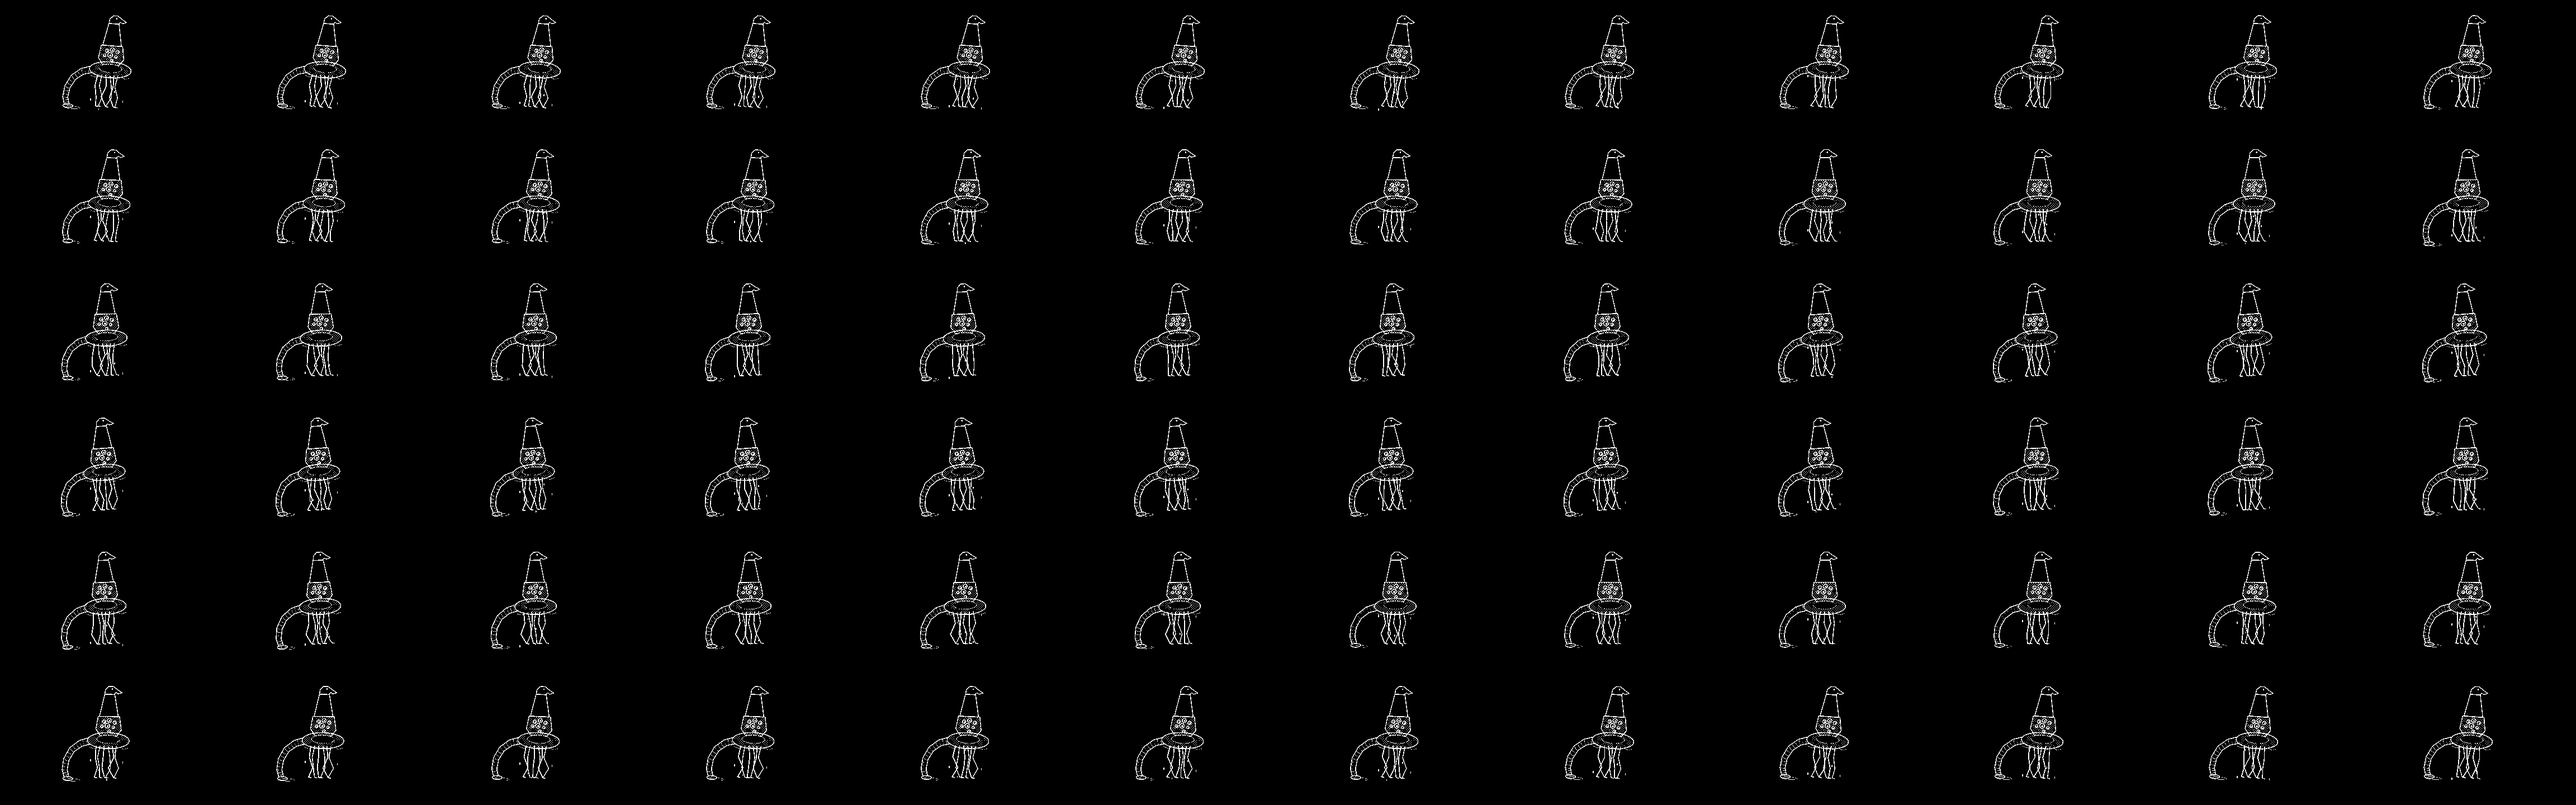
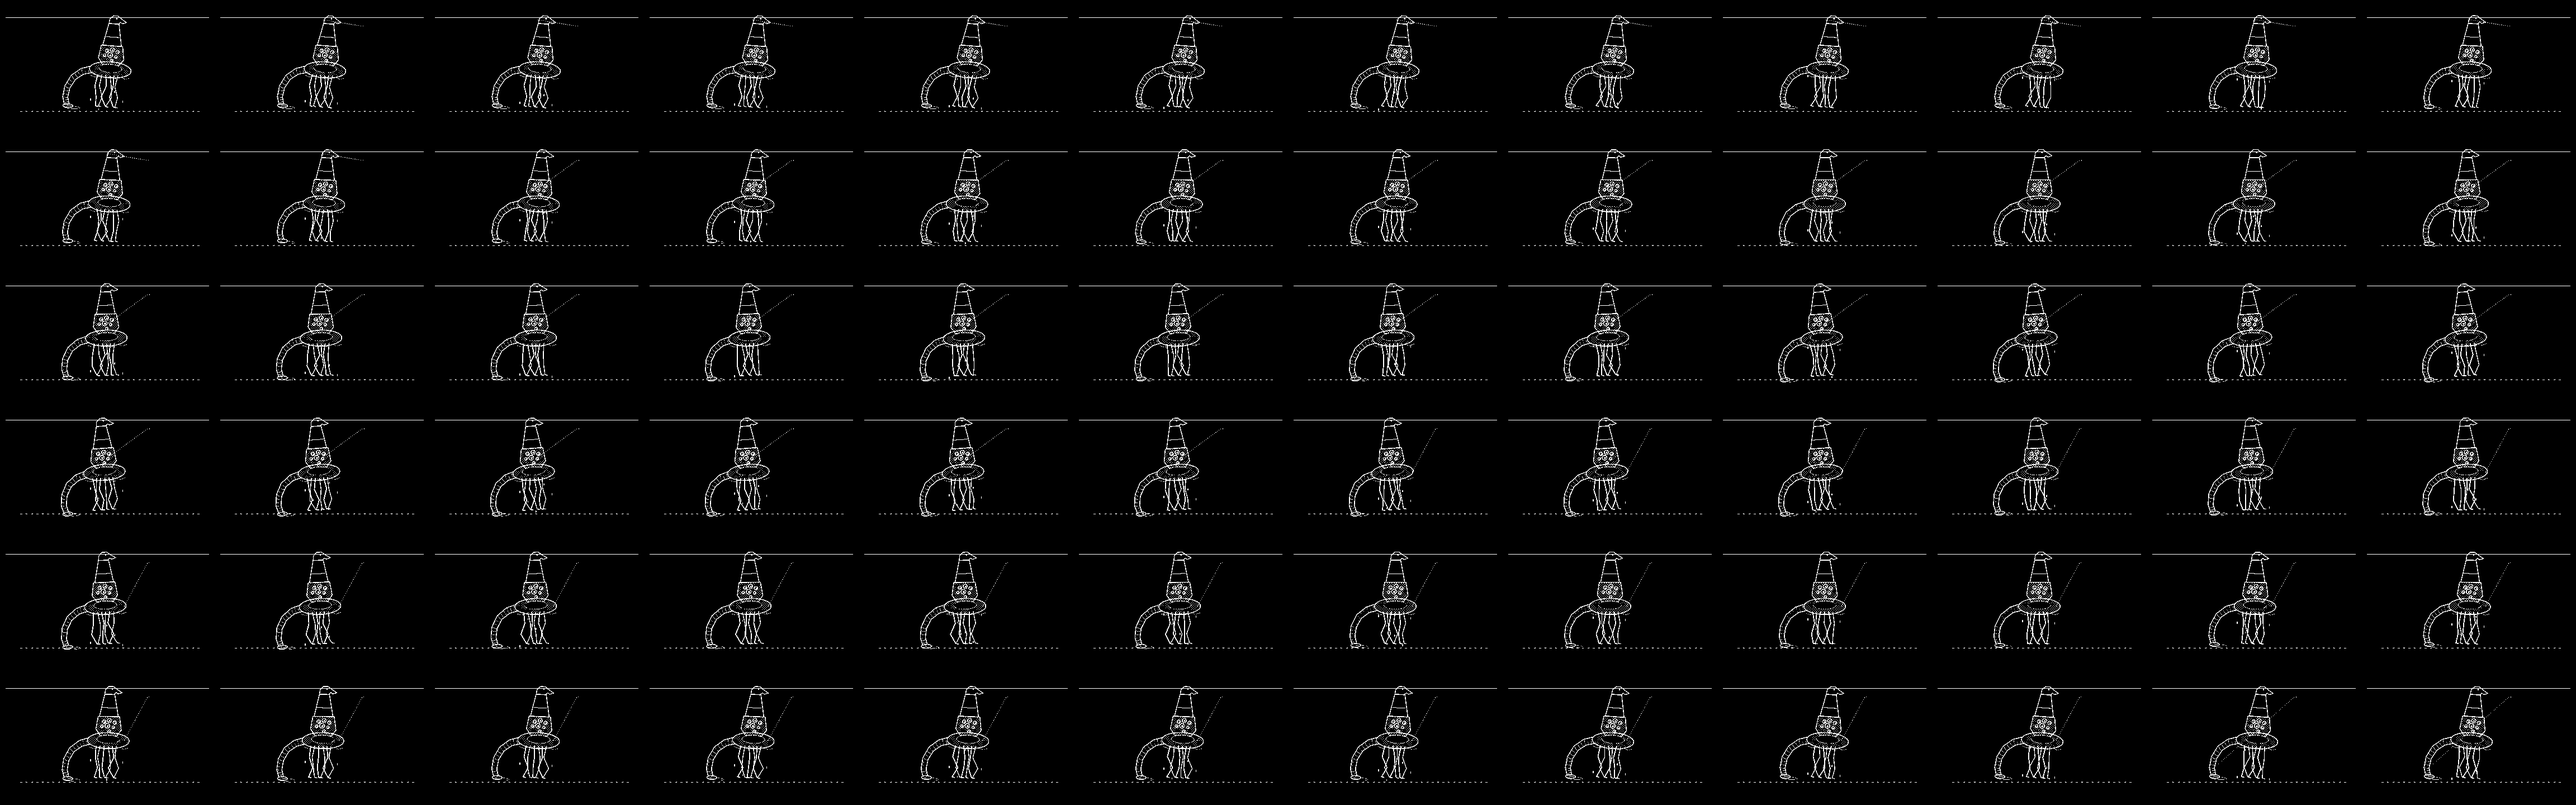
playdate: the wagon gets its canopy back (CCB)
Dim phosphor (#24587c) fell below the 1-bit threshold, taking the
canopy arc and the dunes with it. The exporter now lifts dim strokes/
fills to full phosphor before capture -- at 1-bit, hierarchy is
stroke weight, not tone. The canopy arcs over the ribs again and the
dune horizon returns as a clean line.

diff --git a/playdate/tools/export_figures.py b/playdate/tools/export_figures.py
@@ -72,6 +72,13 @@ def export(page, key, frames):
         """() => {
           document.querySelectorAll('#stage text')
             .forEach((t) => t.setAttribute('display', 'none'));
+          // dim phosphor (#24587c) falls below the 1-bit threshold -- the
+          // wagon's canopy, the dunes. Lift it to full phosphor: at 1-bit,
+          // hierarchy is carried by stroke weight, not tone.
+          document.querySelectorAll('#stage [stroke="#24587c"]')
+            .forEach((e) => e.setAttribute('stroke', '#4db8ff'));
+          document.querySelectorAll('#stage [fill="#24587c"]')
+            .forEach((e) => e.setAttribute('fill', '#4db8ff'));
         }"""
     )
     stage = page.locator("#stage")
